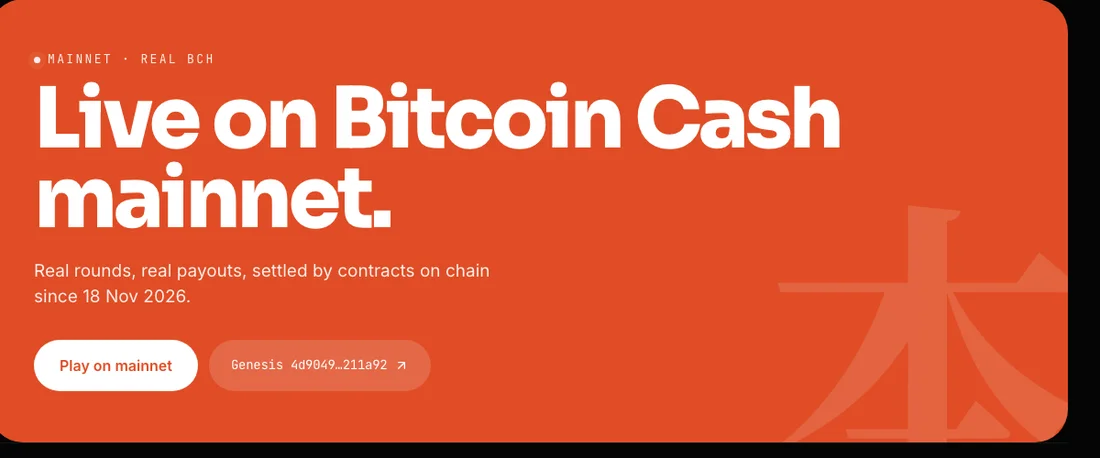
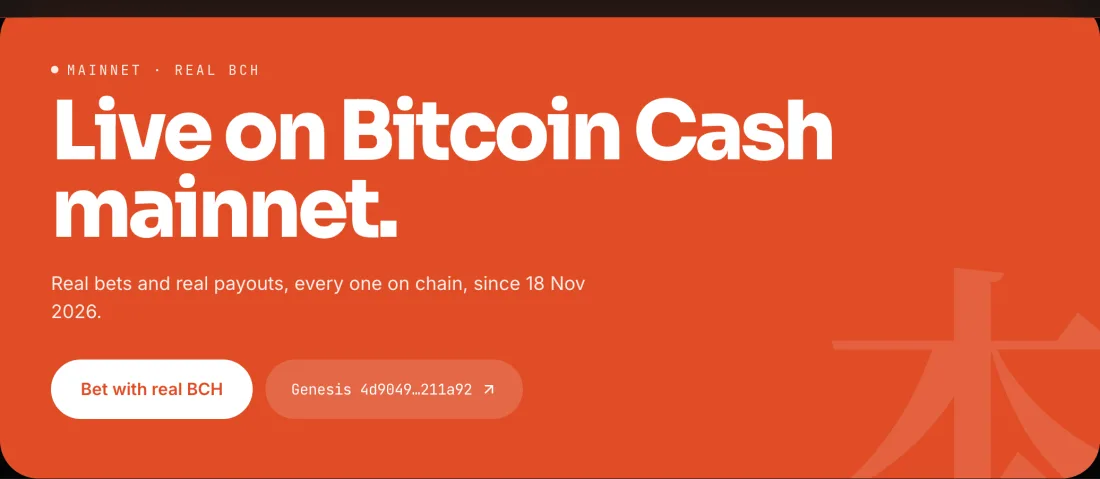
Docs follow the first visit: 'Your first round' now walks through the round screen's walkthrough (the question, the clock, the bet, Up or Down, the test-coin switch, How to play) with fresh phone captures, then pairing; mainnet reads what the wallet holds and never asks for coins; chipnet is where a

diff --git a/docs-site/components/frame/docs-frame.tsx b/docs-site/components/frame/docs-frame.tsx
@@ -11,7 +11,7 @@ import { SITE } from "@/lib/site"
 import type { NavSection } from "@/lib/nav"
 
 /*
- * The docs frame: a top bar (mark, search, theme, source, Play), the sections and their pages on the left with the
+ * The docs frame: a top bar (mark, search, theme, source, Bet), the sections and their pages on the left with the
  * vermilion line marking where you are, the page in a reading column, and the page's outline on the right.
  */
 export function DocsFrame({ nav, children, outline }: { nav: NavSection[]; children: ReactNode; outline?: ReactNode }) {
@@ -76,7 +76,7 @@ function TopBar({ onMenu, menuOpen }: { onMenu: () => void; menuOpen: boolean })
           href={SITE.play}
           className="inline-flex h-10 items-center rounded-full bg-[#e04d26] px-4 text-[14px] font-semibold text-white"
         >
-          Play
+          Bet
         </a>
       </div>
     </header>

diff --git a/docs-site/components/blaze.tsx b/docs-site/components/blaze.tsx
@@ -99,7 +99,7 @@ export function BlazeBanner() {
           >
             <QrCode className="size-3.5" />
             <span className="opacity-80">CashTokens</span>
-            <span className="hidden font-mono underline decoration-white/30 underline-offset-4 group-hover:decoration-white sm:inline xl:hidden">
+            <span className="hidden font-mono underline decoration-white/30 underline-offset-4 group-hover:decoration-white lg:inline xl:hidden">
               {cashtokens.slice(0, SHORT + 2)}…{cashtokens.slice(-SHORT)}
             </span>
             <span className="hidden font-mono underline decoration-white/30 underline-offset-4 group-hover:decoration-white xl:inline">

diff --git a/docs-site/lib/site.ts b/docs-site/lib/site.ts
@@ -13,7 +13,7 @@ export const SITE = {
   /** 上下: up and down. */
   kanji: "上下",
   meaning: "up and down",
-  tagline: "Up or down, in minutes.",
+  tagline: "Bet up or down, in minutes.",
   description:
     "Jōge is a no-house price game on Bitcoin Cash mainnet: call BTC, ETH, BCH or gold up or down for a few cents. Contracts check General Protocols' signed prices and pay the winners straight to their wallets; anyone can finish a round, and AI agents play from vaults they can never empty.",
   url: DOCS_URL,
